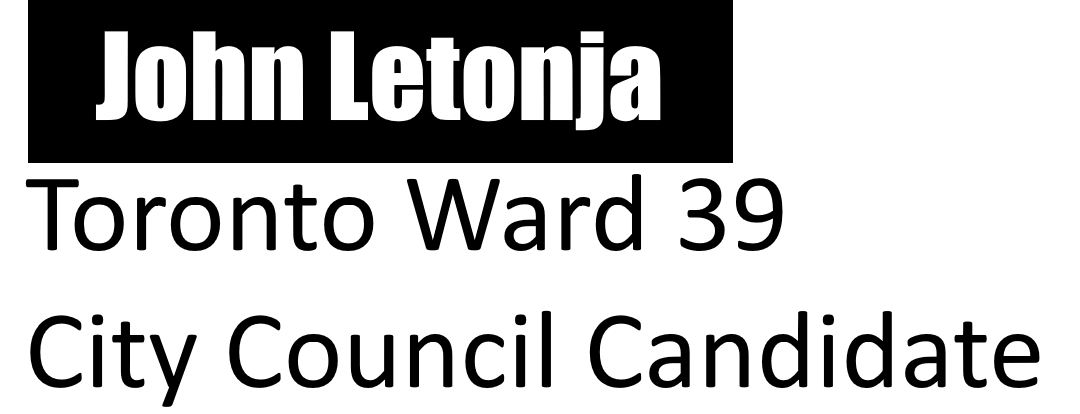
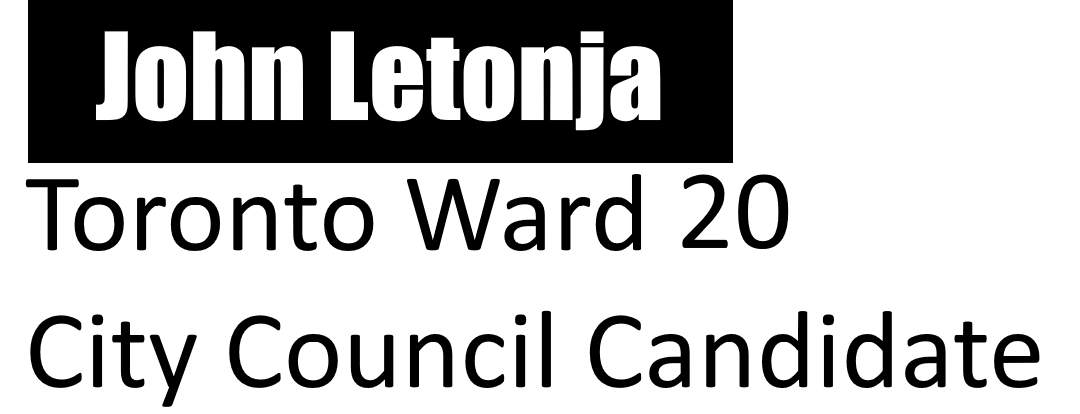
Changed Ward 39 to Ward 20; NOTE: Screw Rob Ford

Changed region(s): [[0.6111, 0.4058, 0.7333, 0.6087]]

diff --git a/index.html b/index.html
@@ -3,8 +3,8 @@
     <head>
         <!-- Metadata -->
         <meta charset="UTF-8">
-        <meta name="description" content="The Campaign Website of John Letonja for Ward 39 City Councilor Candidate">
-        <meta name="keywords" content="John Letonja, Wary 39, Toronto, City, Councilor">
+        <meta name="description" content="The Campaign Website of John Letonja for Ward 20 City Councilor Candidate">
+        <meta name="keywords" content="John Letonja, Wary 20, Toronto, City, Councilor">
         <meta name="author" content="Roman K. Zupancic">
         <meta http-equiv="X-UA-Compatible" content="IE=edge">
         <meta name="viewport" content="width=device-width, initial-scale=1">
@@ -24,7 +24,7 @@
         <link rel="stylesheet" type="text/css" media="screen" href="my.css" />
         <!-- My Custom JS-->
         <script src="my.js"></script>
-        <title>John Letonja | Ward 39</title>
+        <title>John Letonja | Ward 20</title>
         <link rel="icon" href="imgs/faceUpdated2Resize.png">
     </head>
     <body data-spy="scroll" data-target=".navbar" data-offset="50">
@@ -41,7 +41,7 @@
                         <a class="nav-link noWrap" href="#aboutJohn">About John</a>
                     </li>
                     <li class="nav-item dropdown pl-0">
-                        <a class="nav-link dropdown-toggle noWrap" href=# id="navbardrop" data-toggle="dropdown">Ward 39 & You</a>
+                        <a class="nav-link dropdown-toggle noWrap" href=# id="navbardrop" data-toggle="dropdown">Ward 20 & You</a>
                         <div class="dropdown-menu">
                             <a class="dropdown-item noWrap" href="#promise">I, John Letonja, Promise</a>
                             <a class="dropdown-item noWrap" href="#strength">Figure of Strength</a>
@@ -68,7 +68,7 @@
                         <img class="img-fluid" src="imgs/faceUpdated2Resize.png" alt="The Figure of John Letonja">
                     </div>
                     <div class="col-md-6 col-lg-8">
-                        <img class="img-fluid titleCard" src="imgs/titleCard.png" alt="John Letonja: Toronto Ward 39 City Council Candidate">
+                        <img class="img-fluid titleCard" src="imgs/titleCard.png" alt="John Letonja: Toronto Ward 20 City Council Candidate">
                     </div>
                 </div>
             </div>
@@ -76,7 +76,7 @@
             <div class="container titleText mb-5">
                 <img class="titleImage img-thumbnail img-fluid" src="imgs/faceUpdatedBackground.jpg" alt="A Portrait of John Letonja">
                 <h1 class="mb-0 display-4">John Letonja</h1>
-                <h4 class="font-italic text-secondary">Toronto Ward 39 Ciity Council Candidate</h4>
+                <h4 class="font-italic text-secondary">Toronto Ward 20 City Council Candidate</h4>
             </div>
         </div>
             
@@ -87,15 +87,15 @@
                 <h5 class="text-center text-secondary font-italic mb-4">John Letonja never gives up in fighting for what he believes in</h5>
                 <p>John Letonja is an inventor, social advocate, and a devoted family man who never stops working towards the common good. Toronto is a progressive city that has some challenges that he will be determined to meet and coordinate with his personal experience of living in the city. The diversification and growth of the city, throughout the years have given a different perspective to John.  
                 <br><br>Toronto has become a key integral part of the cultural and economic hub in Ontario and it is the people that have contributed to this cohesion.  With Scarborough being a central influence to the landscape and influence to the vibrant city atmosphere.
-                <br><br>A loving father himself, John knows the struggles of raising a family; that stress quickly builds up to a pressure point. As a goal that he is committed to is to make the accessibility, communication and interaction points a stress-free environment for the residents of Ward 39.  John wants to represent Ward 39 as a city councillor, for the good of the community and the city.</p>
+                <br><br>A loving father himself, John knows the struggles of raising a family; that stress quickly builds up to a pressure point. As a goal that he is committed to is to make the accessibility, communication and interaction points a stress-free environment for the residents of Ward 20.  John wants to represent Ward 20 as a city councillor, for the good of the community and the city.</p>
             </div>
         </div>
 
-        <!-- Ward 39 & You -->
-        <div class="container-fluid section" id="ward39">
+        <!-- Ward 20 & You -->
+        <div class="container-fluid section" id="ward20">
             <div class="container mb-5">
-                <h1 class="text-center mb-0">Ward 39 &amp; You</h1>
-                <h5 class="text-center font-italic mb-3 text-dark">Ward 39 offers you a place to live, laugh, love and play</h5>
+                <h1 class="text-center mb-0">Ward 20 &amp; You</h1>
+                <h5 class="text-center font-italic mb-3 text-dark">Ward 20 offers you a place to live, laugh, love and play</h5>
             </div>
             <div class="container">
                 <div class="row cell mb-4" id="promise">
@@ -140,7 +140,7 @@
                     </div>
                     <div class="col-md-9">
                         <h3>Knowlege and Wisdom</h3>
-                        <p>Running a government in the modern world is not easy, and many politicians frequently fall victim to the tactics of both their fellow councillors and outside sources. John Letonja promises to be a bastion of strength for the great people of Ward 39. He will stand up for YOUR common sense rights and lead YOU to a resolution for your cause. John is also adamant about not voting for new taxes: he sees them as a last choice, not the first resource. John is also a teacher of strength, and will gladly aid the mayor and council on how NOT to waste tax payer dollars; he will help get more from your tax dollars. John will also involve YOU in the decisions the City makes. He believes that online polls and other methods can help get the community involved.</p>
+                        <p>Running a government in the modern world is not easy, and many politicians frequently fall victim to the tactics of both their fellow councillors and outside sources. John Letonja promises to be a bastion of strength for the great people of Ward 20. He will stand up for YOUR common sense rights and lead YOU to a resolution for your cause. John is also adamant about not voting for new taxes: he sees them as a last choice, not the first resource. John is also a teacher of strength, and will gladly aid the mayor and council on how NOT to waste tax payer dollars; he will help get more from your tax dollars. John will also involve YOU in the decisions the City makes. He believes that online polls and other methods can help get the community involved.</p>
                     </div>
                 </div>
                 <div class="row cell mb-4" id="wisdom">

diff --git a/my.css b/my.css
@@ -42,7 +42,7 @@ body {
     background-color: rgb(225, 225, 225);
 }
 
-#ward39 {
+#ward20 {
     background-color: #ffc374;
 }
 
